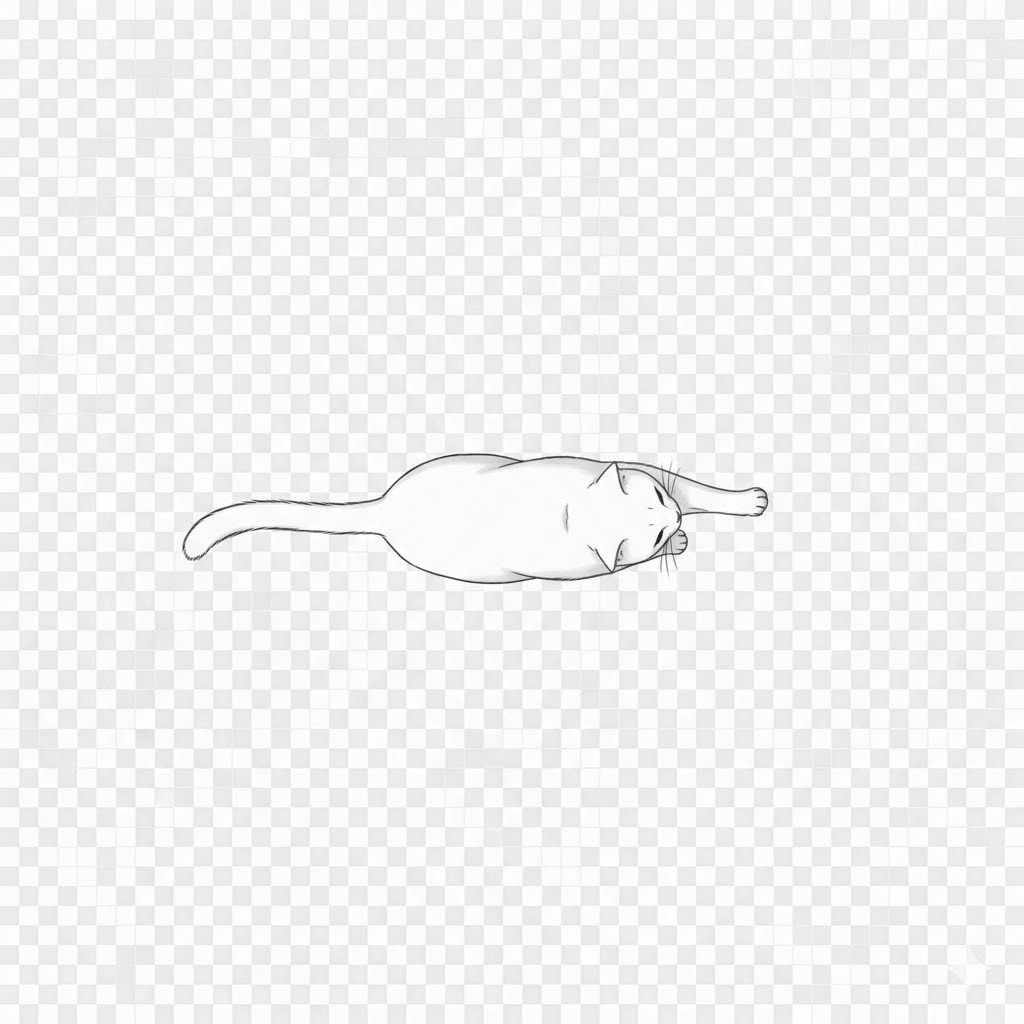
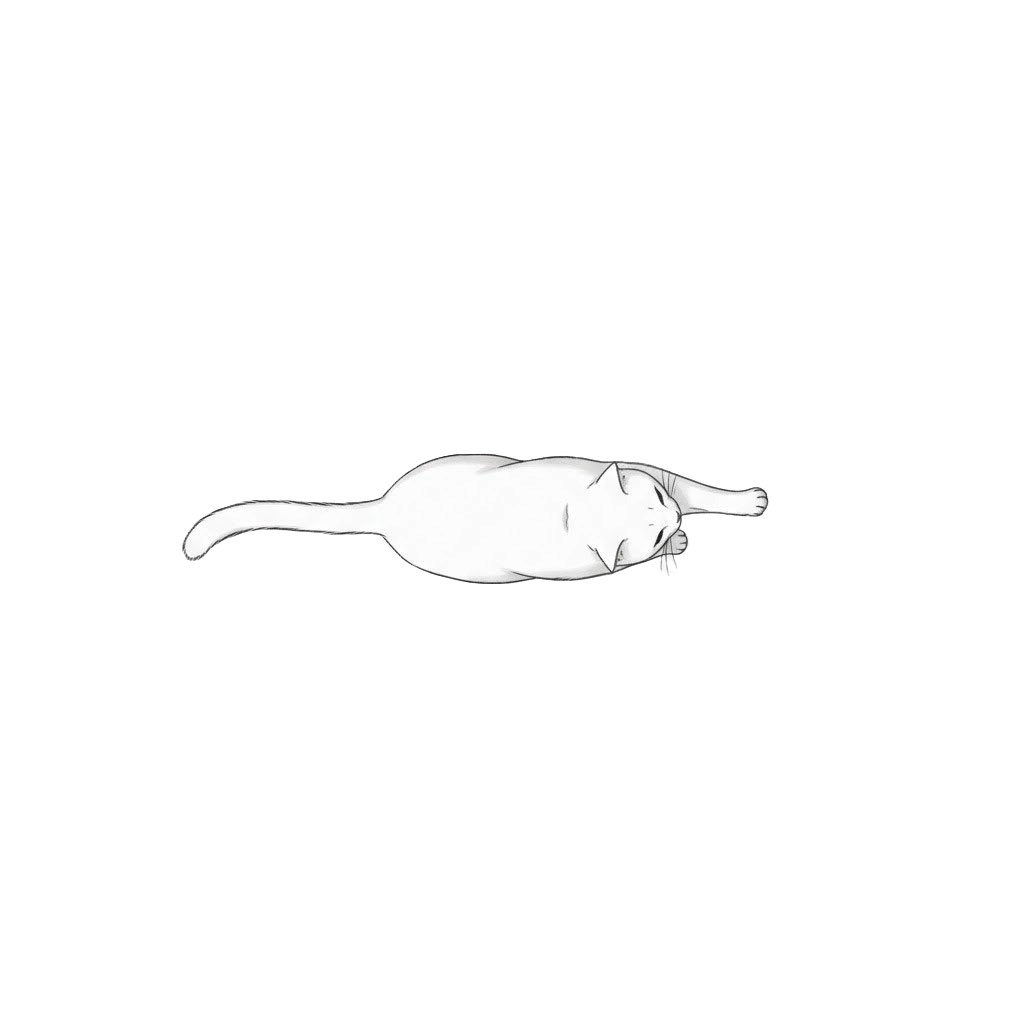
・猫の画像の透過・画像サイズ調整・画像転換速度調整

diff --git a/src/main/resources/static/css/mascot/mascot.css b/src/main/resources/static/css/mascot/mascot.css
@@ -1,60 +1,50 @@
-/* キャラクター、エフェクト、メニューのCSS */
+/* mascot.css */
+
 .mascot-container {
     position: fixed;
-    top: -32px; /* キャラの中心をマウスに合わせるための調整 */
-    left: -32px;
-    width: 64px;
-    height: 64px;
+    top: 0;
+    left: 0;
+    width: 128px; 
+    height: 128px;
+    transition: width 0s, height 0s; /* サイズ変更を滑らかにする場合 */
+    z-index: 9999;
+    pointer-events: auto;
     cursor: grab;
-    will-change: transform; /* パフォーマンス向上 */
+    will-change: transform;
+    /* 中心を合わせるための調整 */
+    transform: translate(-50%, -50%);
+}
+
+.mascot-container.dir-ne,
+.mascot-container.dir-nw,
+.mascot-container.dir-se,
+.mascot-container.dir-sw {
+    width: 83px;
+    height: 83px;
 }
 
 .mascot-sprite {
-    width: 64px;
-    height: 64px;
+    width: 100%;
+    height: 100%;
+    /* 重要: JSでセットした画像をそのまま表示する設定 */
     background-size: contain;
     background-repeat: no-repeat;
-    /* 背景画像の切り替え時に一瞬消えるのを防ぐ設定 */
-    transition: none; 
+    background-position: center center;
+    /* これらを削除、または 0 0 に固定します */
+    background-position-x: 0 !important;
+    background-position-y: 0 !important;
 }
 
-/* 向き（Y軸のオフセット） */
-.dir-n  { background-position-y: calc(-64px * 0); }
-.dir-ne { background-position-y: calc(-64px * 1); }
-.dir-e  { background-position-y: calc(-64px * 2); }
-.dir-se { background-position-y: calc(-64px * 3); }
-.dir-s  { background-position-y: calc(-64px * 4); }
-.dir-sw { background-position-y: calc(-64px * 5); }
-.dir-w  { background-position-y: calc(-64px * 6); }
-.dir-nw { background-position-y: calc(-64px * 7); }
-
-/* アニメーション状態 */
-.state-follow {
-    /* 4フレームを0.5秒でループ */
-    animation: walk-animation 0.5s steps(4) infinite;
-}
-
+/* 状態別のエフェクト（任意） */
 .state-sleep {
-    /* 睡眠時はアニメーション停止、または別のアニメを適用 */
-    background-position-x: 0; 
-    filter: brightness(0.8);
+    filter: brightness(0.7) sepia(0.3);
 }
 
-@keyframes walk-animation {
-    from { background-position-x: 0; }
-    to { background-position-x: -256px; } /* 64px * 4枚分 */
+.state-rush {
+    /* 餌に向かう時のスピード感を出したい場合 */
+    filter: contrast(1.2);
 }
 
-
-
-
- /* 画像がない間は赤い四角 */
-/* .mascot-sprite {
-    width: 64px;
-    height: 64px;
-    background-color: #ff6b6b;
-    border-radius: 8px;
-    transition: background 0.3s;
-} */
-
-/* 方向確認用のデバッグテキスト表示などが必要ならここに追加 */
+/* 以前のスプライト用のアニメーション(@keyframes)や .dir-n などの 
+   background-position 指定はすべて削除するかコメントアウトしてください。
+   それらが残っていると画像が表示されない原因になります。 */

diff --git a/src/main/resources/static/js/mascot/MascotEntity.js b/src/main/resources/static/js/mascot/MascotEntity.js
@@ -1,9 +1,12 @@
 // キャラクターのスペック定義
+
+const DEFAULT_FRAME_COUNT = { n: 2, s: 2, e: 2, w: 2, ne: 2, nw: 2, se: 2, sw: 2 };
+
 export const CharacterConfigs = {
-    CAT: {
-        id: 'cat',
-        basePath: '/images/characters/cat/',
-        frameCount: 4, // 1方向につき4枚
-        interval: 150  // コマ送りの速度（ミリ秒）
-    }
+  CAT: {
+    id: 'cat',
+    basePath: '/images/characters/cat/',
+    frameCount: { ...DEFAULT_FRAME_COUNT },
+    interval: 150  // コマ送りの速度（ミリ秒）
+  }
 };
